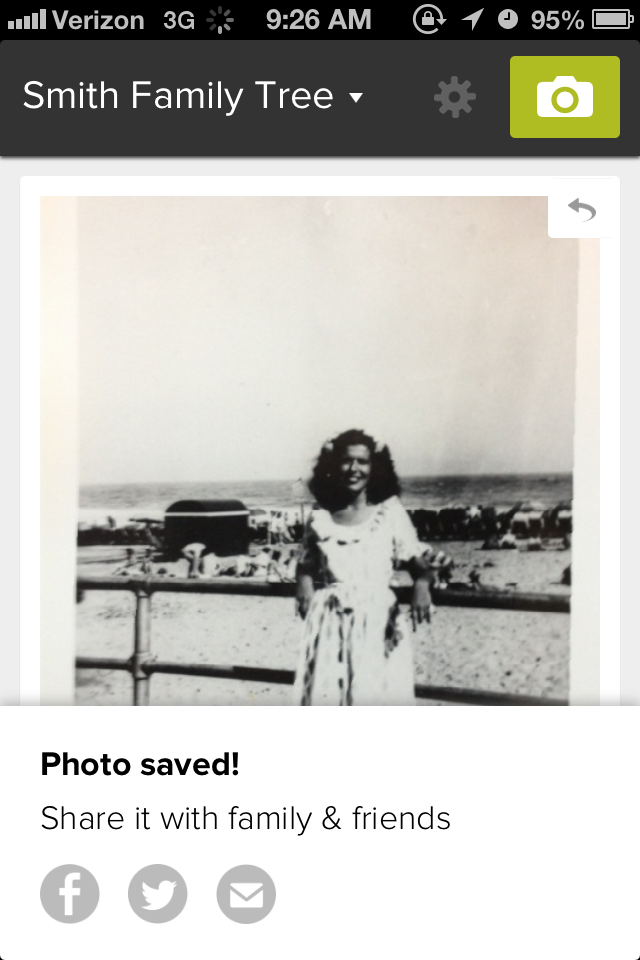
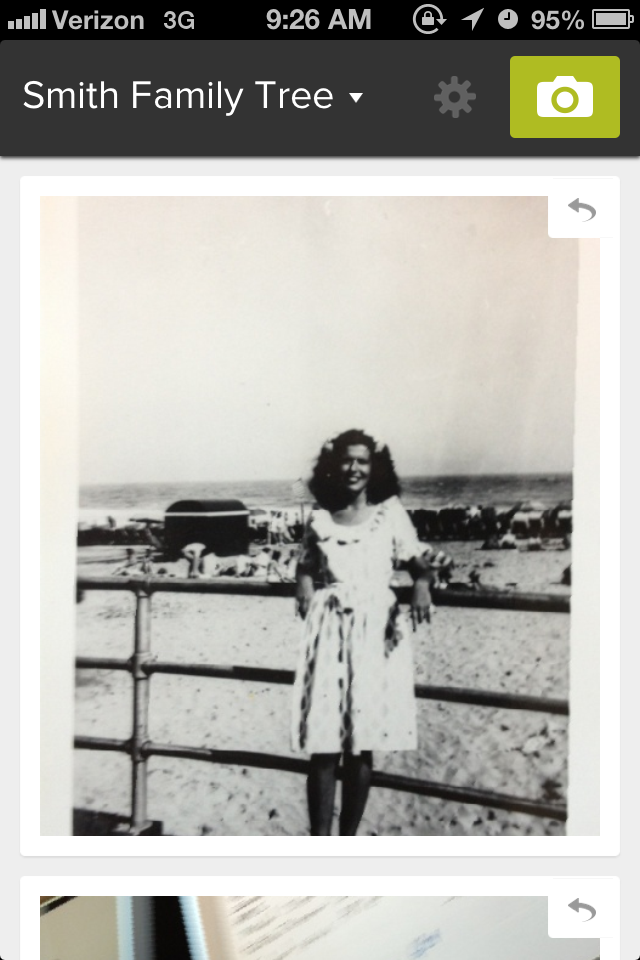
remove unused screenshot

Changed region(s): [[0.0, 0.7188, 1.0, 1.0], [0.3125, 0.0, 0.375, 0.0312]]

diff --git a/index.html b/index.html
@@ -60,10 +60,6 @@
           {
             url: 'images/screenshots/10.png',
             animation: 'fadeIn'
-          },
-          {
-            url: 'images/screenshots/11.png',
-            animation: 'fadeIn'
           }
         ];
         var images = new Bordeaux.Images(json);
